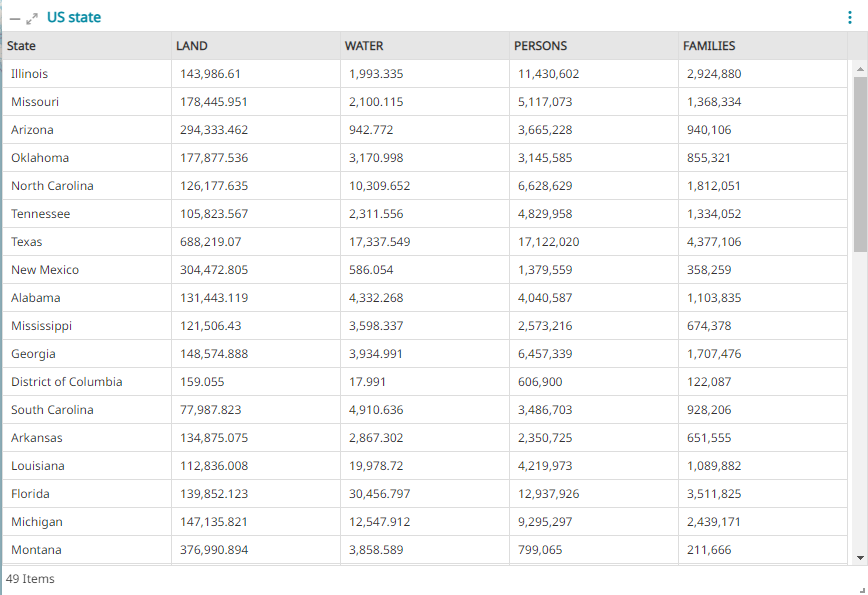
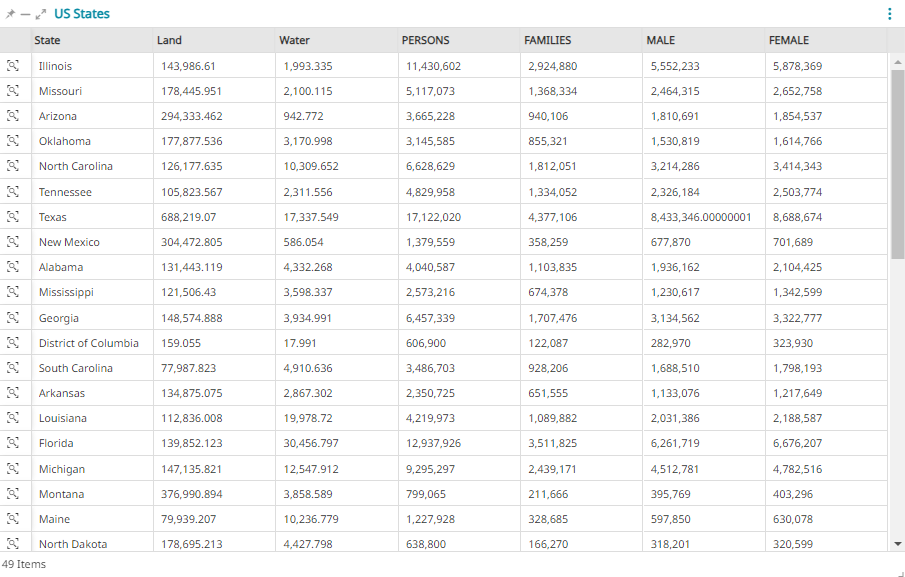
add_9708

Changed region(s): [[0.0, 0.0, 1.0, 0.9983], [0.9643, 0.9671, 1.0, 1.0]]

diff --git a/docs/user-guide/widgets.md b/docs/user-guide/widgets.md
@@ -298,6 +298,9 @@ An example of table widget could be:
 
 <img src="../img/widgets/table-ex.jpg" class="ms-docimage"/>
 
+!!! Note
+    If the *Table* is connected to the map, the user can **Zoom to feature** through the <img src="../img/button/zoom-feature.jpg" class="ms-docbutton"/> button available on each record.
+
 ### Counter
 
 Selecting the counter option, the following window opens:
